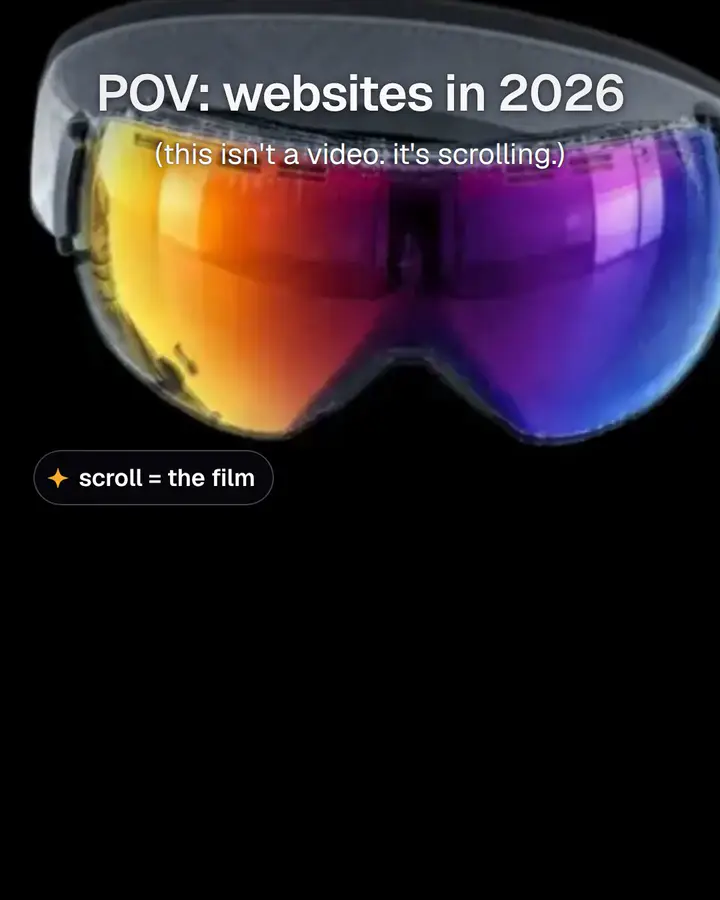
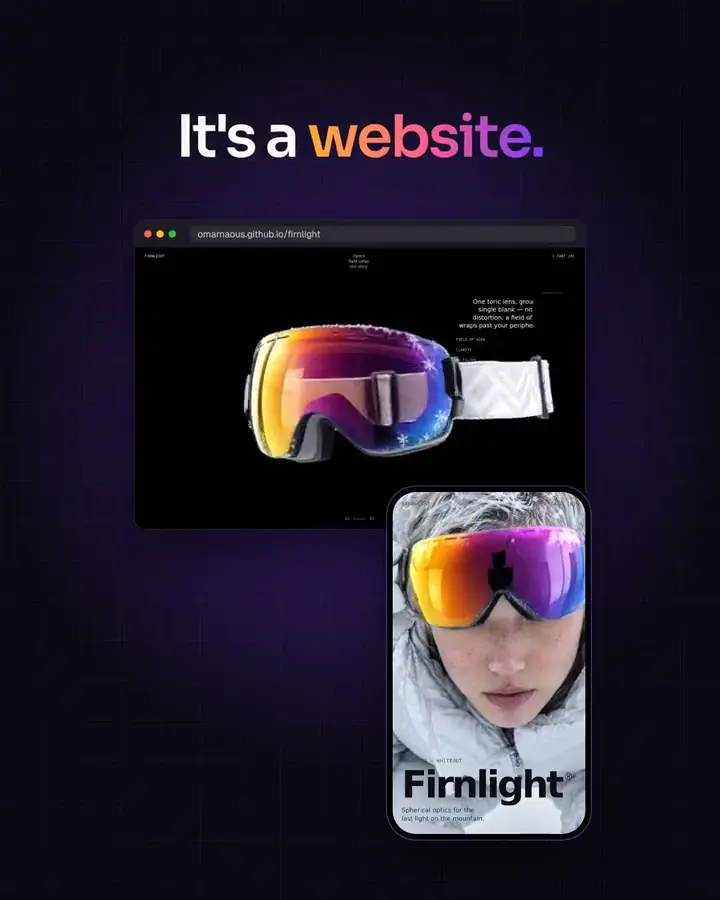
appify-web: cleaner, more professional finish
- No scroll-driven effects: cards no longer scale, tilt, fade or catch a light
  sheen as they scroll; sections no longer fade up into place. Only the hero
  keeps its motion.
- No cursor gimmicks: magnetic buttons, card tilt and the glow that followed
  the cursor are gone; hovers are a quiet border change.
- Removed the scrolling service ticker under the hero and the "you just
  scrolled past N videos" block; the closing block is now a plain panel:
  "Got an idea? Appify it." and Get a free prototype.
- Section numbers start at 01.
- Website cards on the home row are 4:5 and every poster fills its frame (no
  black bars); capped on phones so swipes still snap to a card.
- Website posters re-cut from clean frames, without the social hooks
  ("POV: websites in 2026", "ChatGPT/Claude could never do this").
- The FAQ called Darebni AI "in development"; it's live on the App Store.
- Footer: "Made in Lebanon." instead of the concept-builds note.

Claude-Session: https://claude.ai/code/session_01J8CdFv3swMV9cdtzd73STo

diff --git a/appify-web/src/lib/pages.js b/appify-web/src/lib/pages.js
@@ -61,7 +61,7 @@ function workCard(p, i = 0) {
 // Website videos' lengths in seconds (ffprobe), for the time tag on the home row.
 const SITE_SECONDS = { "/media/wtc-launch.mp4": 25, "/media/firnlight.mp4": 20, "/media/oddball.mp4": 21, "/media/valmora.mp4": 21, "/media/earshot.mp4": 15 };
 // The home websites row uses the video card exactly as section 3 does (motionCard), fed with a website.
-const siteReel = (p, i) => motionCard({ ...p, kind: p.category, duration: SITE_SECONDS[p.video] || 0, client: "Appify" }, i).replace('<article class="reel" data-kind="', `<article class="reel" data-cats="${[p.category === "Animated website" ? "animated" : "", p.category === "E-commerce" ? "ecommerce" : ""].join(" ")}" data-kind="`);
+const siteReel = (p, i) => motionCard({ ...p, kind: p.category, duration: SITE_SECONDS[p.video] || 0, client: "Appify" }, i).replace('<article class="reel" data-kind="', `<article class="reel wide" data-cats="${[p.category === "Animated website" ? "animated" : "", p.category === "E-commerce" ? "ecommerce" : ""].join(" ")}" data-kind="`);
 // Horizontal rows (websites, videos): arrows, drag, a progress line. id ties the controls to the row.
 const rowBar = (id, filters) => `<div class="motion-bar">${filters}<div class="scroll-btns"><button type="button" data-scroll="-1" data-for="${id}" aria-label="Previous">${icon.arrow}</button><button type="button" data-scroll="1" data-for="${id}" aria-label="Next">${icon.arrow}</button></div></div>`;
 const rowProg = (id) => `<div class="wrap"><div class="row-prog" data-prog-for="${id}" aria-hidden="true"><i></i></div></div>`;
@@ -112,7 +112,7 @@ const priceCard = (p, i) => `<article class="price-card${p.featured ? " featured
   <p class="price-amt">${p.from ? `<span class="price-from">from</span>` : ""}${p.was ? `<s>$${p.was}</s>` : ""}<b>$${p.price}</b></p>
   <p class="price-note">${esc(p.note)}</p>
   <ul class="price-list">${p.lines.map((l) => `<li>${icon.check}${esc(l)}</li>`).join("")}</ul>
-  <a class="btn ${p.featured ? "primary" : "ghost"} big magnetic" href="/book">Book a call${icon.arrow}</a>
+  <a class="btn ${p.featured ? "primary" : "ghost"} big" href="/book">Book a call${icon.arrow}</a>
 </article>`;
 const pricing = (s) => PRICING[s.slug] ? `<section class="section pricing" id="pricing" aria-labelledby="pricing-h"><div class="wrap">${head("", "Pricing", `<span id="pricing-h">${esc(s.name)}: what it costs</span>`, "Clear prices up front. Book a call and we'll confirm yours.")}<div class="price-grid n${PRICING[s.slug].length}">${PRICING[s.slug].map(priceCard).join("")}</div></div></section>` : "";
 
@@ -161,8 +161,8 @@ function booking(site, page = false, num = "") {
       </fieldset>
       <p class="form-msg" role="status" aria-live="polite"></p>
       <div class="send">
-        ${s.whatsapp ? `<button class="btn primary big magnetic" type="submit" name="channel" value="whatsapp">${icon.wa}Book on WhatsApp</button>` : ""}
-        <button class="btn ${s.whatsapp ? "ghost" : "primary"} big magnetic" type="submit" name="channel" value="email">Book my call${icon.arrow}</button>
+        ${s.whatsapp ? `<button class="btn primary big" type="submit" name="channel" value="whatsapp">${icon.wa}Book on WhatsApp</button>` : ""}
+        <button class="btn ${s.whatsapp ? "ghost" : "primary"} big" type="submit" name="channel" value="email">Book my call${icon.arrow}</button>
       </div>
     </form>
   </div>
@@ -174,7 +174,6 @@ export function homePage(site) {
   const websites = site.projects.filter((p) => p.kind === "website");
   const apps = site.projects.filter((p) => p.kind === "app");
   const motion = site.motion;
-  const marquee = ["Websites", "Online stores", "Animated websites", "Mobile apps", "Motion graphics", "3D", "Content ads", "Meta ads", "UI/UX"];
   const body = `
 <section class="hero" data-hero>
   <div class="hero-bg" aria-hidden="true"><div class="grid"></div><div class="glow"></div><div class="spot"></div><div class="beam"></div>${[1, 2, 3, 4, 5, 6].map((i) => `<span class="float f${i}">${sparkSVG("fs")}</span>`).join("")}</div>
@@ -183,7 +182,7 @@ export function homePage(site) {
       <p class="kicker">${sparkSVG("k-spark")}<span>${esc(site.settings.tagline)}</span><span class="dot"></span><span>Made in Lebanon</span></p>
       <h1 class="hero-title" data-split>Websites, apps &amp; motion graphics that <span class="grad">stop the scroll.</span></h1>
       <p class="lede">Appify is a creative tech studio in Lebanon. We design animated websites and online stores, build mobile apps and make content ads that put your brand in the spotlight.</p>
-      <div class="cta-row"><a class="cta-hero magnetic" href="/book" data-hero-cta><span class="cta-txt"><b>Get a free prototype</b><small>Pick a day and a time</small></span><span class="cta-go">${icon.arrow}</span></a></div>
+      <div class="cta-row"><a class="cta-hero" href="/book" data-hero-cta><span class="cta-txt"><b>Get a free prototype</b><small>Pick a day and a time</small></span><span class="cta-go">${icon.arrow}</span></a></div>
     </div>
     <div class="hero-stage" data-dev data-lines='${esc(JSON.stringify(DEV_LINES))}'>
       <div class="tv" data-tv data-full="${esc(INTRO.video)}">
@@ -192,7 +191,7 @@ export function homePage(site) {
         <span class="tv-tag" aria-hidden="true"><i></i>Intro</span>
         <span class="tv-chip" aria-hidden="true"><span class="tv-off">${icon.play}Tap to play</span><span class="tv-on"><i class="eq"><b></b><b></b><b></b><b></b></i>Tap to pause</span><span class="tv-paused">${icon.play}Tap to play</span></span>
         <span class="tv-bar" aria-hidden="true"><i></i></span>
-        <div class="tv-end"><p class="tv-end-k">That's Appify.</p><p class="tv-end-h">Your idea next?</p><div class="tv-end-btns"><a class="btn primary magnetic" href="/book">Book a call${icon.arrow}</a><button class="btn ghost tv-again" type="button">Watch again</button></div></div>
+        <div class="tv-end"><p class="tv-end-k">That's Appify.</p><p class="tv-end-h">Your idea next?</p><div class="tv-end-btns"><a class="btn primary" href="/book">Book a call${icon.arrow}</a><button class="btn ghost tv-again" type="button">Watch again</button></div></div>
       </div>
       <div class="hero-dev">
         <div class="orbit" aria-hidden="true">${["Websites", "Apps", "Motion", "Meta ads", "3D", "UI/UX"].map((x) => `<span><i>${x}</i></span>`).join("")}</div>
@@ -202,19 +201,18 @@ export function homePage(site) {
       </div>
     </div>
   </div>
-  <div class="marquee" aria-hidden="true"><div class="marquee-in">${[...marquee, ...marquee].map((m) => `<span>${m}</span>${sparkSVG("m-spark")}`).join("")}</div></div>
 </section>
 
 <section class="section svcs" aria-labelledby="svc-h">
   <div class="wrap">
-    ${head("00", "What we do", `<span id="svc-h">Four ways we grow your brand</span>`, "")}
+    ${head("01", "What we do", `<span id="svc-h">Four ways we grow your brand</span>`, "")}
     <div class="svc-grid">${site.services.map(serviceCard).join("")}</div>
   </div>
 </section>
 
 <section class="section work" id="work" aria-labelledby="work-h">
   <div class="wrap">
-    ${head("01", "Websites", `<span id="work-h">Websites we designed &amp; built</span>`, "A live client store and four concept builds from our Animated Website series. Tap any video to watch it with sound.")}
+    ${head("02", "Websites", `<span id="work-h">Websites we designed &amp; built</span>`, "A live client store and four concept builds from our Animated Website series. Tap any video to watch it with sound.")}
     ${rowBar("work-row", `<div class="filters" role="group" aria-label="Filter websites" data-filter="#work-row .reel"><button type="button" class="on" data-f="*">All</button><button type="button" data-f="animated">Animated</button><button type="button" data-f="ecommerce">E-commerce</button></div>`)}
   </div>
   <div class="hrow reel-row" id="work-row" data-row tabindex="0" aria-label="Websites we built">${websites.slice(0, 5).map(siteReel).join("")}</div>
@@ -223,7 +221,7 @@ export function homePage(site) {
 
 <section class="section apps" id="apps" aria-labelledby="apps-h">
   <div class="wrap">
-    ${head("02", "Mobile apps", `<span id="apps-h">Apps for iOS &amp; Android</span>`, "From the first screens to the App Store and Google Play, with the admin side your team needs.")}
+    ${head("03", "Mobile apps", `<span id="apps-h">Apps for iOS &amp; Android</span>`, "From the first screens to the App Store and Google Play, with the admin side your team needs.")}
     ${rowBar("apps-row", "<span></span>")}
   </div>
   <div class="hrow reel-row" id="apps-row" data-row tabindex="0" aria-label="Apps we built">${apps.map(appReel).join("")}</div>
@@ -232,26 +230,26 @@ export function homePage(site) {
 
 <section class="section motion" id="motion" aria-labelledby="motion-h">
   <div class="wrap">
-    ${head("03", "Motion graphics & content ads", `<span id="motion-h">Content that holds attention</span>`, "Reels, ads, 3D and brand films, every frame and every sound made by us. Tap any video to watch it with sound.")}
+    ${head("04", "Motion graphics & content ads", `<span id="motion-h">Content that holds attention</span>`, "Reels, ads, 3D and brand films, every frame and every sound made by us. Tap any video to watch it with sound.")}
     ${rowBar("reel-row", `<div class="filters" role="group" aria-label="Filter videos" data-filter="#reel-row .reel"><button type="button" class="on" data-f="*">All</button><button type="button" data-f="ad">Ads</button><button type="button" data-f="brand">Brand</button><button type="button" data-f="reel">Reels</button><button type="button" data-f="client">Client work</button></div>`)}
   </div>
   <div class="hrow reel-row" id="reel-row" data-row tabindex="0" aria-label="Motion graphics videos">${motion.map(motionCard).join("")}</div>
   ${rowProg("reel-row")}
 </section>
 
-<section class="section spot" aria-label="Why Appify">
-  <div class="wrap spot-in" data-reveal>
-    <p class="spot-k">You just scrolled past ${motion.length} videos and ${Math.min(5, websites.length)} websites.</p>
-    <p class="spot-big">That's what we do to your brand: <span class="grad">put it in the spotlight.</span></p>
-    <a class="btn primary big magnetic" href="/book">Get a free prototype${icon.arrow}</a>
-  </div>
+<section class="section spot" aria-label="Start a project">
+  <div class="wrap"><div class="spot-in">
+    <p class="spot-big">Got an idea? <span class="grad">Appify it.</span></p>
+    <p class="spot-sub">Book a free call. We'll turn your idea into a prototype and give you a clear price.</p>
+    <a class="btn primary big" href="/book">Get a free prototype${icon.arrow}</a>
+  </div></div>
 </section>
 
-${booking(site, false, "04")}
+${booking(site, false, "05")}
 
 <section class="section faqs" id="faq" aria-labelledby="faq-h">
   <div class="wrap faq-grid">
-    <div data-reveal>${head("05", "FAQ", `<span id="faq-h">Questions people ask us</span>`, `Still unsure? <a href="#book">Book a call</a> or email <a href="mailto:${esc(site.settings.email)}">${esc(site.settings.email)}</a>.`)}</div>
+    <div data-reveal>${head("06", "FAQ", `<span id="faq-h">Questions people ask us</span>`, `Still unsure? <a href="#book">Book a call</a> or email <a href="mailto:${esc(site.settings.email)}">${esc(site.settings.email)}</a>.`)}</div>
     ${faqList(site.faqs)}
   </div>
 </section>`;
@@ -276,7 +274,7 @@ export function workPage(site, p) {
       <p class="kicker">${sparkSVG("k-spark")}<span>${esc(p.category)}</span><span class="dot"></span><span>${esc(p.client)}</span></p>
       <h1 class="case-title" data-split>${esc(p.title)}</h1>
       <p class="lede">${esc(p.summary)}</p>
-      <div class="cta-row">${p.live_url ? `<a class="btn primary big magnetic" href="${esc(p.live_url)}" target="_blank" rel="noopener">Visit the live site${icon.ext}</a>` : ""}<a class="btn ghost big" href="/book">Get a website like this</a></div>
+      <div class="cta-row">${p.live_url ? `<a class="btn primary big" href="${esc(p.live_url)}" target="_blank" rel="noopener">Visit the live site${icon.ext}</a>` : ""}<a class="btn ghost big" href="/book">Get a website like this</a></div>
     </div>
   </section>
   ${p.video ? `<div class="wrap case-video" data-reveal><video controls playsinline preload="metadata" poster="${esc(p.poster)}" style="aspect-ratio:${p.aspect}"><source src="${esc(p.video)}" type="video/mp4"></video></div>` : ""}
@@ -312,7 +310,7 @@ export function servicePage(site, s) {
       <p class="kicker">${sparkSVG("k-spark")}<span>${esc(s.name)}</span><span class="dot"></span><span>Lebanon</span></p>
       <h1 class="case-title" data-split>${esc(s.h1)}</h1>
       <p class="lede">${esc(s.intro)}</p>
-      <div class="cta-row"><a class="btn primary big magnetic" href="/book">Get a free prototype${icon.arrow}</a>${PRICING[s.slug] ? `<a class="btn ghost big" href="#pricing">See pricing</a>` : `<a class="btn ghost big" href="/#work">See our work</a>`}</div>
+      <div class="cta-row"><a class="btn primary big" href="/book">Get a free prototype${icon.arrow}</a>${PRICING[s.slug] ? `<a class="btn ghost big" href="#pricing">See pricing</a>` : `<a class="btn ghost big" href="/#work">See our work</a>`}</div>
     </div>
     <div class="svc-dev" aria-hidden="true">${devSVG({ thumbs: 1, brow: 14, lid: 0.05, smile: 1, look: -4, tilt: 3 }, "")}</div>
   </div>

diff --git a/appify-web/public/assets/css/site.css b/appify-web/public/assets/css/site.css
@@ -187,11 +187,6 @@ p { margin: 0; }
 .orbit span i { display: block; font-style: normal; padding: 7px 12px; border-radius: 999px; background: rgba(var(--surface-rgb), .9); border: 1px solid var(--line); font: 600 13px/1 "UI"; white-space: nowrap; animation: orb 46s linear infinite reverse; }
 .orbit span:nth-child(1) { --i: 0; } .orbit span:nth-child(2) { --i: 1; color: var(--sky); } .orbit span:nth-child(3) { --i: 2; color: var(--yellow); } .orbit span:nth-child(4) { --i: 3; } .orbit span:nth-child(5) { --i: 4; color: var(--iris); } .orbit span:nth-child(6) { --i: 5; }
 @keyframes orb { to { transform: rotate(360deg); } }
-.marquee { margin-top: auto; border-top: 1px solid rgba(143, 114, 255, .14); border-bottom: 1px solid rgba(143, 114, 255, .14); background: rgba(var(--surface-rgb), .6); overflow: hidden; padding: 18px 0; }
-.marquee-in { display: flex; align-items: center; gap: 28px; width: max-content; animation: marquee 32s linear infinite; }
-.marquee-in span { font: 600 clamp(20px, 2.4vw, 30px)/1 "Display"; letter-spacing: -.02em; color: rgba(var(--fg-rgb), .8); }
-.m-spark { width: 18px; height: 18px; color: var(--iris); }
-@keyframes marquee { to { transform: translateX(-50%); } }
 @media (max-width: 920px) {
   .hero { padding-top: 100px; }
   .hero-grid { grid-template-columns: 1fr; text-align: left; }
@@ -210,10 +205,8 @@ p { margin: 0; }
 .svcs { padding-top: clamp(48px, 6vw, 76px); }
 .svc-grid { display: grid; grid-template-columns: repeat(4, 1fr); gap: 16px; }
 .other-svcs .svc-grid { grid-template-columns: repeat(3, 1fr); }
-.svc { position: relative; display: flex; flex-direction: column; gap: 12px; padding: 26px 24px 24px; border-radius: var(--r); background: linear-gradient(180deg, rgba(var(--surface2-rgb), .9), rgba(var(--surface-rgb), .9)); border: 1px solid var(--line); overflow: hidden; transition: transform .45s var(--spring), border-color .3s; }
-.svc::before { content: ""; position: absolute; inset: 0; background: radial-gradient(260px circle at var(--x, 50%) var(--y, 0%), rgba(91, 43, 255, .28), transparent 70%); opacity: 0; transition: opacity .3s; }
-.svc:hover { transform: translateY(-6px); border-color: rgba(143, 114, 255, .5); }
-.svc:hover::before { opacity: 1; }
+.svc { position: relative; display: flex; flex-direction: column; gap: 12px; padding: 26px 24px 24px; border-radius: var(--r); background: linear-gradient(180deg, rgba(var(--surface2-rgb), .9), rgba(var(--surface-rgb), .9)); border: 1px solid var(--line); overflow: hidden; transition: border-color .25s; }
+.svc:hover { border-color: rgba(143, 114, 255, .5); }
 .svc > * { position: relative; }
 .svc-ic { width: 54px; height: 54px; border-radius: 16px; display: grid; place-items: center; background: rgba(91, 43, 255, .16); color: var(--iris); }
 .svc-ic svg { width: 28px; height: 28px; }
@@ -254,26 +247,6 @@ p { margin: 0; }
 .work-card:hover { border-color: rgba(143, 114, 255, .5); box-shadow: 0 30px 60px -20px rgba(91, 43, 255, .45); }
 .work-card.out { display: none; }
 /* scroll motion for both rows, driven by each card's position in its row (compositor only, no JS while swiping) */
-@supports (animation-timeline: view()) {
-  .hrow .reel-media { animation: card-in linear both, card-out linear both; animation-timeline: view(inline), view(inline); animation-range: entry, exit; }
-  @keyframes card-in { from { scale: .84; opacity: .3; rotate: -3deg; } to { scale: 1; opacity: 1; rotate: 0deg; } }
-  @keyframes card-out { to { scale: .84; opacity: .3; rotate: 3deg; } }
-  /* the picture drifts inside its frame, against the swipe */
-  .hrow .reel-media img { scale: 1.14; animation: drift-in-frame linear both; animation-timeline: view(inline); animation-range: cover; }
-  @keyframes drift-in-frame { from { translate: 6% 0; } to { translate: -6% 0; } }
-  /* a soft light passes across the frame */
-  .hrow .reel-media::after { content: ""; position: absolute; inset: -10% -60%; z-index: 1; pointer-events: none; background: linear-gradient(100deg, transparent 42%, rgba(255, 255, 255, .13) 50%, transparent 58%); animation: sheen linear both; animation-timeline: view(inline); animation-range: cover; }
-  @keyframes sheen { from { translate: 45% 0; } to { translate: -45% 0; } }
-  /* text sits a layer behind the frame */
-  .hrow .reel > :not(.reel-media) { animation: text-in linear both, text-out linear both; animation-timeline: view(inline), view(inline); animation-range: entry, exit; }
-  @keyframes text-in { from { translate: 8px 0; opacity: 0; } to { translate: 0 0; opacity: 1; } }
-  @keyframes text-out { to { translate: -8px 0; opacity: 0; } }
-  /* the play button pops in as its card arrives */
-  .hrow .reel-play { animation: pop-in linear both; animation-timeline: view(inline); animation-range: entry 10% entry 100%; }
-  @keyframes pop-in { from { scale: .4; opacity: 0; } to { scale: 1; opacity: 1; } }
-  .hrow .reel-play, .hrow .reel-time { z-index: 2; }
-}
-@media (prefers-reduced-motion: reduce) { .hrow *, .hrow *::after { animation: none !important; } }
 /* website cards reuse the video-card look (.reel); only the frame shape and the text below differ */
 .reel.site .reel-media { height: auto; aspect-ratio: 4 / 5; }
 .reel.site .reel-media img { object-position: 50% 22%; cursor: pointer; }
@@ -328,27 +301,26 @@ p { margin: 0; }
 .work .motion-bar { margin-bottom: 4px; }
 .reel-row.static { --h: clamp(340px, 50vh, 480px); }
 .reel { flex: none; scroll-snap-align: start; width: calc(var(--h) * 9 / 16); display: flex; flex-direction: column; gap: 8px; }
+/* website cards are wider (4:5), but never wider than the row's snap area, so a swipe still settles on a card */
+.reel.wide { width: min(calc(var(--h) * 4 / 5), 100vw - 2 * var(--side) - 40px); }
 .reel.out { display: none; }
 .reel-media { position: relative; display: block; flex: none; width: 100%; height: var(--h); border-radius: var(--r); overflow: hidden; background: var(--surface-2); border: 1px solid var(--line); transition: transform .5s var(--spring), box-shadow .3s; }
-@media (hover: hover) { .reel-media:hover { transform: translateY(-6px); box-shadow: 0 30px 60px -20px rgba(91, 43, 255, .6); } }
+@media (hover: hover) { .reel-media:hover { border-color: rgba(143, 114, 255, .5); } }
 .reel-media img { display: block; width: 100%; height: 100%; object-fit: cover; }
-.work-media.fit::before, .reel-media.fit::before { content: ""; position: absolute; inset: 0; background: var(--poster) center / cover; }
-.work-media.fit video, .reel-media.fit img { position: relative; object-fit: contain; object-position: 50% 50%; }
+.work-media.fit video { position: relative; object-fit: contain; object-position: 50% 50%; }
 .reel-play { position: absolute; inset: auto 14px 14px auto; width: 50px; height: 50px; border-radius: 50%; display: grid; place-items: center; background: rgba(255, 255, 255, .92); color: var(--ink); transition: transform .35s var(--spring); }
 .reel-play svg { width: 22px; margin-left: 3px; }
-@media (hover: hover) { .reel-media:hover .reel-play { transform: scale(1.12); } }
+
 .reel-time { position: absolute; left: 14px; bottom: 16px; padding: 5px 9px; border-radius: 8px; background: rgba(10, 9, 19, .7); color: #fff; font: 500 12px/1 "Mono"; }
 .reel h3 { font-size: 20px; margin-top: 6px; }
 .reel .meta { margin-top: 8px; }
 .reel .summary { font-size: 14.5px; }
 
-/* spotlight statement */
-.spot { overflow: hidden; text-align: center; }
-.spot::before { content: ""; position: absolute; left: 50%; top: 0; width: min(900px, 120vw); height: 100%; translate: -50% 0; background: linear-gradient(180deg, rgba(235, 230, 255, .2), rgba(143, 114, 255, .05) 60%, transparent); clip-path: polygon(44% 0, 56% 0, 100% 100%, 0 100%); filter: blur(20px); pointer-events: none; }
-.spot::after { content: ""; position: absolute; left: 50%; top: -30px; width: 340px; height: 60px; translate: -50% 0; border-radius: 50%; background: radial-gradient(ellipse, rgba(255, 255, 255, .8), transparent 70%); }
-.spot-in { position: relative; display: grid; justify-items: center; gap: 22px; }
-.spot-k { font: 500 14px/1.4 "Mono"; letter-spacing: .12em; text-transform: uppercase; color: var(--sky); }
-.spot-big { font: 600 clamp(36px, 5.6vw, 76px)/1.04 "Display"; letter-spacing: -.04em; max-width: 16ch; }
+/* closing call to action */
+.spot-in { display: grid; justify-items: center; gap: 18px; text-align: center; padding: clamp(36px, 6vw, 64px) var(--pad); border-radius: 28px; background: var(--surface); border: 1px solid var(--line); }
+.spot-big { font: 600 clamp(34px, 5vw, 64px)/1.04 "Display"; letter-spacing: -.04em; text-wrap: balance; }
+.spot-big .grad { white-space: nowrap; }
+.spot-sub { color: var(--mute); max-width: 46ch; }
 
 /* booking */
 .book { background: linear-gradient(180deg, transparent, rgba(91, 43, 255, .08) 30%, transparent); }
@@ -485,12 +457,7 @@ textarea.field { resize: vertical; }
 /* confetti from Dev */
 .confetti { position: fixed; z-index: 70; pointer-events: none; width: 10px; height: 6px; border-radius: 2px; }
 
-/* reveal on scroll (only when JS is running) */
-.js [data-reveal] { opacity: 0; transform: translateY(34px); transition: opacity .9s var(--ease) var(--d, 0ms), transform .9s var(--ease) var(--d, 0ms); }
-.js [data-reveal].in { opacity: 1; transform: none; }
-.js .hrow > [data-reveal] { transform: translate3d(0, 28px, 0); transition: opacity .6s var(--ease) var(--d, 0ms), transform .7s cubic-bezier(.16, 1, .3, 1) var(--d, 0ms); }
-.js .hrow > [data-reveal].in { transform: none; }
-.work-card.tilting, .js .work-card[data-reveal].in.tilting { transform: perspective(900px) rotateX(var(--rx, 0deg)) rotateY(var(--ry, 0deg)); transition: transform .18s linear, border-color .3s, box-shadow .3s; }
+/* the hero headline comes in word by word on load */
 .js [data-split] .w { display: inline-block; opacity: 0; transform: translateY(.5em) rotate(4deg); filter: blur(6px); transition: opacity .8s var(--ease), transform .8s var(--spring), filter .8s var(--ease); transition-delay: calc(var(--i) * 55ms + 120ms); }
 .js [data-split].in .w { opacity: 1; transform: none; filter: none; }
 /* Safari doesn't paint a parent's clipped gradient into words that animate on their own layer, so each word gets it */
@@ -500,6 +467,6 @@ textarea.field { resize: vertical; }
 @media (prefers-reduced-motion: reduce) {
   html { scroll-behavior: auto; }
   *, *::before, *::after { animation-duration: .001ms !important; animation-iteration-count: 1 !important; transition-duration: .001ms !important; transition-delay: 0ms !important; }
-  .js [data-reveal], .js [data-split] .w { opacity: 1; transform: none; filter: none; }
+  .js [data-split] .w { opacity: 1; transform: none; filter: none; }
 }
 @media (max-width: 520px) { .kicker { font-size: 11.5px; gap: 8px; padding: 7px 12px 7px 10px; } }

diff --git a/appify-web/public/assets/js/app.js b/appify-web/public/assets/js/app.js
@@ -1,6 +1,6 @@
 // Motion and interaction on top of the server-rendered page. Everything degrades: without this script
 // the content, links, videos (poster + tap to play) and the booking form (plain POST) still work.
-import { devSVG } from "./dev.js?v=20261017b";
+import { devSVG } from "./dev.js?v=20261017c";
 
 const $ = (s, r = document) => r.querySelector(s);
 const $$ = (s, r = document) => [...r.querySelectorAll(s)];
@@ -60,39 +60,13 @@ const rowIO = new IntersectionObserver((es) => es.forEach((e) => {
 $$("[data-row]").forEach((r) => rowIO.observe(r));
 $$("[data-reveal]").forEach((el) => { if (!el.parentElement.matches("[data-row]")) io.observe(el); });
 
-// ── pointer glow in the hero, glow on service cards, tilt on cards, magnetic buttons ──────────────────
+// ── pointer glow in the hero ─────────────────────────────────────────────────────────────────────────
 // The hero glow is a separate layer moved with transform (no full-screen repaint per mouse move).
 const hero = $("[data-hero]"), spot = $(".hero-bg .spot");
 if (hero && spot && fine && !reduced) hero.addEventListener("pointermove", perFrame((e) => {
   const r = hero.getBoundingClientRect();
   spot.style.transform = `translate3d(${e.clientX - r.left}px, ${e.clientY - r.top}px, 0)`;
 }), { passive: true });
-if (fine && !reduced) {
-  $$(".svc").forEach((c) => c.addEventListener("pointermove", perFrame((e) => {
-    const r = c.getBoundingClientRect();
-    c.style.setProperty("--x", `${e.clientX - r.left}px`); c.style.setProperty("--y", `${e.clientY - r.top}px`);
-  }), { passive: true }));
-  $$("[data-tilt]").forEach((c) => {
-    let on = false;
-    c.addEventListener("pointermove", perFrame((e) => {
-      if (!on) return;
-      const r = c.getBoundingClientRect(), x = (e.clientX - r.left) / r.width - 0.5, y = (e.clientY - r.top) / r.height - 0.5;
-      c.style.setProperty("--ry", `${(x * 5).toFixed(2)}deg`); c.style.setProperty("--rx", `${(-y * 5).toFixed(2)}deg`);
-    }), { passive: true });
-    c.addEventListener("pointerenter", () => { on = true; c.classList.add("tilting"); });
-    c.addEventListener("pointerleave", () => { on = false; c.classList.remove("tilting"); c.style.setProperty("--ry", "0deg"); c.style.setProperty("--rx", "0deg"); });
-  });
-  $$(".magnetic").forEach((b) => {
-    let on = false;
-    b.addEventListener("pointermove", perFrame((e) => {
-      if (!on) return;
-      const r = b.getBoundingClientRect();
-      b.style.translate = `${((e.clientX - r.left - r.width / 2) * 0.18).toFixed(1)}px ${((e.clientY - r.top - r.height / 2) * 0.28).toFixed(1)}px`;
-    }), { passive: true });
-    b.addEventListener("pointerenter", () => { on = true; });
-    b.addEventListener("pointerleave", () => { on = false; b.style.translate = ""; });
-  });
-}
 
 // ── videos: nothing loads or plays until it's tapped (cards show their poster); the player plays with sound ─
 const pauseOthers = (keep) => $$("video").forEach((v) => v !== keep && !v.paused && v.pause());

diff --git a/appify-web/src/lib/html.js b/appify-web/src/lib/html.js
@@ -4,7 +4,7 @@ import { WORDMARK, sparkPath } from "../../public/assets/js/brand.js";
 
 export const esc = (s = "") => String(s).replace(/[&<>"']/g, (c) => ({ "&": "&amp;", "<": "&lt;", ">": "&gt;", '"': "&quot;", "'": "&#39;" })[c]);
 export const json = (s) => { try { return JSON.parse(s || "[]"); } catch { return []; } };
-export const ASSET_V = "20261017b";
+export const ASSET_V = "20261017c";
 
 export const icon = {
   arrow: '<svg viewBox="0 0 24 24" aria-hidden="true"><path d="M5 12h13M13 6l6 6-6 6" fill="none" stroke="currentColor" stroke-width="2.2" stroke-linecap="round" stroke-linejoin="round"/></svg>',
@@ -72,7 +72,7 @@ ${ld}
       ${NAV.map(([t, h]) => `<a href="${h}">${t}</a>`).join("")}
       <details class="nav-more"><summary>Services</summary><div class="nav-menu">${site.services.map((s) => `<a href="/services/${s.slug}">${esc(s.name)}</a>`).join("")}</div></details>
     </nav>
-    <a class="btn primary sm magnetic nav-cta" href="/book">Book a call</a>
+    <a class="btn primary sm nav-cta" href="/book">Book a call</a>
     <button class="nav-burger" aria-label="Open menu" aria-expanded="false" data-burger><span></span><span></span></button>
   </div>
   <div class="nav-mobile" data-mobile-menu>
@@ -111,6 +111,6 @@ function footer(site) {
       <a href="${esc(site.settings.instagram)}" rel="noopener me" target="_blank">${icon.ig}${esc(site.settings.instagram_handle)}</a>
     </div>
   </div>
-  <div class="wrap foot-bottom"><span>© ${y} Appify. All rights reserved.</span><span>Concept builds are labelled as concepts.</span></div>
+  <div class="wrap foot-bottom"><span>© ${y} Appify. All rights reserved.</span><span>Made in Lebanon.</span></div>
 </footer>`;
 }
